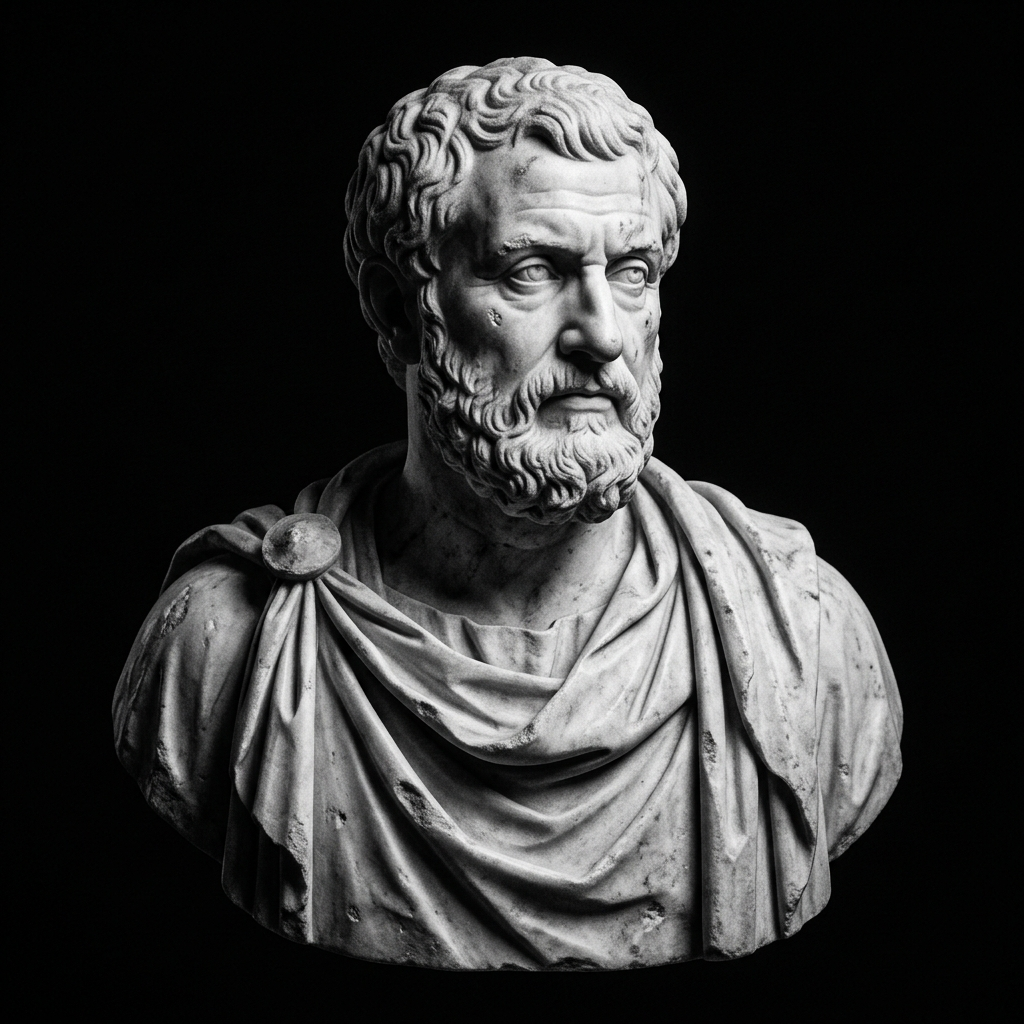
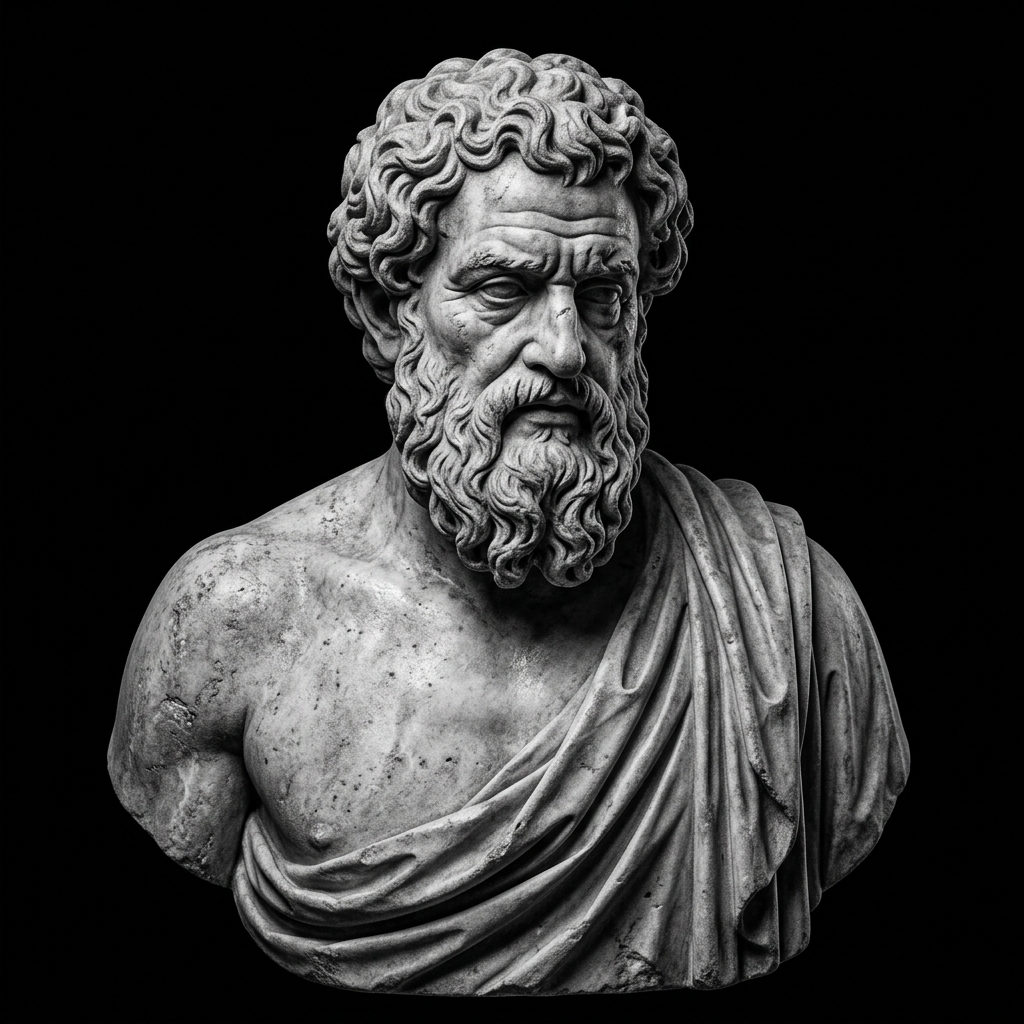
feat: statue cutout with text behind — mix-blend-mode: lighten
- New statue image with pure black background
- mix-blend-mode: lighten makes black disappear = clean cutout
- CONTROL text opacity increased (0.07 → 0.15) for clear visibility behind statue
- Statue zoomed in bigger (95% → 110% height)
- Statue contrast boosted for crispier cutout edges
- Login page cleaned up: no statue, just dark gradient + card

diff --git a/app/globals.css b/app/globals.css
@@ -399,33 +399,34 @@ body {
 }
 
 .hero__bigtext {
-  font-size: clamp(120px, 22vw, 380px);
+  font-size: clamp(140px, 25vw, 450px);
   font-weight: 900;
-  color: rgba(255, 255, 255, 0.07);
+  color: rgba(255, 255, 255, 0.15);
   letter-spacing: -0.04em;
   text-transform: uppercase;
   white-space: nowrap;
   line-height: 0.85;
   user-select: none;
-  /* Rough/bold texture feel */
   text-shadow:
-    0 0 60px rgba(220, 38, 38, 0.05),
-    0 0 120px rgba(220, 38, 38, 0.03);
+    0 0 80px rgba(220, 38, 38, 0.08),
+    0 0 160px rgba(220, 38, 38, 0.04);
 }
 
-/* Layer 2 — STATUE ON TOP of text (z-index: 2) */
+/* Layer 2 — STATUE CUTOUT on top of text (z-index: 2) */
+/* mix-blend-mode: lighten makes the black background disappear */
 .hero__statue {
   position: absolute;
-  bottom: -4%;
+  bottom: -8%;
   left: 50%;
-  transform: translateX(-40%);
-  height: 95%;
-  max-height: 100%;
+  transform: translateX(-38%);
+  height: 110%;
+  max-height: 120%;
   object-fit: contain;
   z-index: 2;
   pointer-events: none;
-  filter: grayscale(100%) contrast(1.15) brightness(0.75);
-  opacity: 0.85;
+  filter: grayscale(100%) contrast(1.3) brightness(0.9);
+  mix-blend-mode: lighten;
+  opacity: 1;
 }
 
 /* Layer 3 — CONTENT on top (z-index: 3) */
